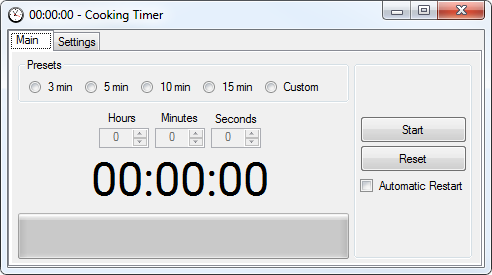
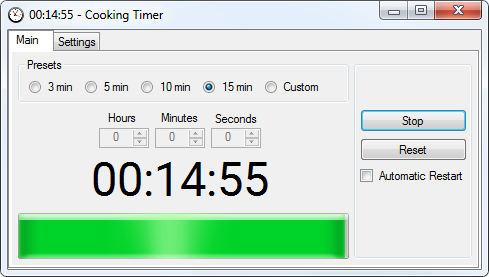
Fixed minor issue
having to double push Start in a few circumstances

diff --git a/Cooking Timer/Form1.Designer.cs b/Cooking Timer/Form1.Designer.cs
@@ -49,7 +49,7 @@
             this.label3 = new System.Windows.Forms.Label();
             this.label4 = new System.Windows.Forms.Label();
             this.timer1 = new System.Windows.Forms.Timer(this.components);
-            this.MainTab = new System.Windows.Forms.TabControl();
+            this.tabControl1 = new System.Windows.Forms.TabControl();
             this.tabPage1 = new System.Windows.Forms.TabPage();
             this.tabPage2 = new System.Windows.Forms.TabPage();
             this.checkBox1 = new System.Windows.Forms.CheckBox();
@@ -58,7 +58,7 @@
             ((System.ComponentModel.ISupportInitialize)(this.HourUpDown)).BeginInit();
             ((System.ComponentModel.ISupportInitialize)(this.MinuteUpDown)).BeginInit();
             ((System.ComponentModel.ISupportInitialize)(this.SecondUpDown)).BeginInit();
-            this.MainTab.SuspendLayout();
+            this.tabControl1.SuspendLayout();
             this.tabPage1.SuspendLayout();
             this.tabPage2.SuspendLayout();
             this.SuspendLayout();
@@ -168,9 +168,9 @@
             // 
             // button2
             // 
-            this.button2.Location = new System.Drawing.Point(6, 87);
+            this.button2.Location = new System.Drawing.Point(6, 80);
             this.button2.Name = "button2";
-            this.button2.Size = new System.Drawing.Size(107, 27);
+            this.button2.Size = new System.Drawing.Size(107, 23);
             this.button2.TabIndex = 3;
             this.button2.Text = "Reset";
             this.button2.UseVisualStyleBackColor = true;
@@ -178,9 +178,9 @@
             // 
             // button1
             // 
-            this.button1.Location = new System.Drawing.Point(6, 58);
+            this.button1.Location = new System.Drawing.Point(6, 51);
             this.button1.Name = "button1";
-            this.button1.Size = new System.Drawing.Size(107, 27);
+            this.button1.Size = new System.Drawing.Size(107, 23);
             this.button1.TabIndex = 2;
             this.button1.Text = "Start";
             this.button1.UseVisualStyleBackColor = true;
@@ -189,7 +189,7 @@
             // AutoRestart
             // 
             this.AutoRestart.AutoSize = true;
-            this.AutoRestart.Location = new System.Drawing.Point(6, 120);
+            this.AutoRestart.Location = new System.Drawing.Point(6, 110);
             this.AutoRestart.Name = "AutoRestart";
             this.AutoRestart.Size = new System.Drawing.Size(110, 17);
             this.AutoRestart.TabIndex = 0;
@@ -263,34 +263,34 @@
             this.label4.TabIndex = 9;
             this.label4.Text = "Seconds";
             // 
-            // MainTab
+            // tabControl1
             // 
-            this.MainTab.Controls.Add(this.tabPage1);
-            this.MainTab.Controls.Add(this.tabPage2);
-            this.MainTab.Dock = System.Windows.Forms.DockStyle.Fill;
-            this.MainTab.Location = new System.Drawing.Point(0, 0);
-            this.MainTab.Name = "MainTab";
-            this.MainTab.SelectedIndex = 0;
-            this.MainTab.Size = new System.Drawing.Size(476, 237);
-            this.MainTab.TabIndex = 10;
+            this.tabControl1.Controls.Add(this.tabPage1);
+            this.tabControl1.Controls.Add(this.tabPage2);
+            this.tabControl1.Dock = System.Windows.Forms.DockStyle.Fill;
+            this.tabControl1.Location = new System.Drawing.Point(0, 0);
+            this.tabControl1.Name = "tabControl1";
+            this.tabControl1.SelectedIndex = 0;
+            this.tabControl1.Size = new System.Drawing.Size(473, 239);
+            this.tabControl1.TabIndex = 10;
             // 
             // tabPage1
             // 
             this.tabPage1.BackColor = System.Drawing.SystemColors.Control;
-            this.tabPage1.Controls.Add(this.groupBox2);
-            this.tabPage1.Controls.Add(this.label4);
             this.tabPage1.Controls.Add(this.groupBox1);
-            this.tabPage1.Controls.Add(this.label3);
+            this.tabPage1.Controls.Add(this.label4);
             this.tabPage1.Controls.Add(this.progressBar1);
-            this.tabPage1.Controls.Add(this.label2);
+            this.tabPage1.Controls.Add(this.label3);
             this.tabPage1.Controls.Add(this.BigTimer);
+            this.tabPage1.Controls.Add(this.label2);
+            this.tabPage1.Controls.Add(this.groupBox2);
             this.tabPage1.Controls.Add(this.SecondUpDown);
             this.tabPage1.Controls.Add(this.HourUpDown);
             this.tabPage1.Controls.Add(this.MinuteUpDown);
             this.tabPage1.Location = new System.Drawing.Point(4, 22);
             this.tabPage1.Name = "tabPage1";
             this.tabPage1.Padding = new System.Windows.Forms.Padding(3);
-            this.tabPage1.Size = new System.Drawing.Size(468, 211);
+            this.tabPage1.Size = new System.Drawing.Size(465, 213);
             this.tabPage1.TabIndex = 0;
             this.tabPage1.Text = "Main";
             // 
@@ -301,18 +301,18 @@
             this.tabPage2.Location = new System.Drawing.Point(4, 22);
             this.tabPage2.Name = "tabPage2";
             this.tabPage2.Padding = new System.Windows.Forms.Padding(3);
-            this.tabPage2.Size = new System.Drawing.Size(468, 211);
+            this.tabPage2.Size = new System.Drawing.Size(465, 213);
             this.tabPage2.TabIndex = 1;
             this.tabPage2.Text = "Settings";
             // 
             // checkBox1
             // 
             this.checkBox1.AutoSize = true;
-            this.checkBox1.Location = new System.Drawing.Point(9, 7);
+            this.checkBox1.Location = new System.Drawing.Point(8, 6);
             this.checkBox1.Name = "checkBox1";
-            this.checkBox1.Size = new System.Drawing.Size(71, 17);
+            this.checkBox1.Size = new System.Drawing.Size(98, 17);
             this.checkBox1.TabIndex = 0;
-            this.checkBox1.Text = "Top Most";
+            this.checkBox1.Text = "Always On Top";
             this.checkBox1.UseVisualStyleBackColor = true;
             this.checkBox1.CheckedChanged += new System.EventHandler(this.checkBox1_CheckedChanged);
             // 
@@ -320,8 +320,8 @@
             // 
             this.AutoScaleDimensions = new System.Drawing.SizeF(6F, 13F);
             this.AutoScaleMode = System.Windows.Forms.AutoScaleMode.Font;
-            this.ClientSize = new System.Drawing.Size(476, 237);
-            this.Controls.Add(this.MainTab);
+            this.ClientSize = new System.Drawing.Size(473, 239);
+            this.Controls.Add(this.tabControl1);
             this.FormBorderStyle = System.Windows.Forms.FormBorderStyle.FixedSingle;
             this.Icon = ((System.Drawing.Icon)(resources.GetObject("$this.Icon")));
             this.Name = "CookingTimerForm";
@@ -335,7 +335,7 @@
             ((System.ComponentModel.ISupportInitialize)(this.HourUpDown)).EndInit();
             ((System.ComponentModel.ISupportInitialize)(this.MinuteUpDown)).EndInit();
             ((System.ComponentModel.ISupportInitialize)(this.SecondUpDown)).EndInit();
-            this.MainTab.ResumeLayout(false);
+            this.tabControl1.ResumeLayout(false);
             this.tabPage1.ResumeLayout(false);
             this.tabPage1.PerformLayout();
             this.tabPage2.ResumeLayout(false);
@@ -365,7 +365,7 @@
         private System.Windows.Forms.Label label3;
         private System.Windows.Forms.Label label4;
         private System.Windows.Forms.Timer timer1;
-        private System.Windows.Forms.TabControl MainTab;
+        private System.Windows.Forms.TabControl tabControl1;
         private System.Windows.Forms.TabPage tabPage1;
         private System.Windows.Forms.TabPage tabPage2;
         private System.Windows.Forms.CheckBox checkBox1;

diff --git a/Cooking Timer/Form1.cs b/Cooking Timer/Form1.cs
@@ -27,15 +27,18 @@ namespace Cooking_Timer
             timer.Interval = 1000;
             timerSound = new Timer();
             timerSound.Interval = 10;
+
+            timer.Tick += new EventHandler(TimerTick);
+            timerSound.Tick += new EventHandler(TimerTickSound);
         }
 
         public void button1_Click(object sender, EventArgs e)
         {
             if (timer.Enabled == false)
             {
-                timer.Tick += new EventHandler(TimerTick);
-                timerSound.Tick += new EventHandler(TimerTickSound);
                 timer.Start();
+
+                timerSound.Tick += new EventHandler(TimerTickSound);
                 timerSound.Start();
                 button1.Text = "Stop";
             }
@@ -43,8 +46,6 @@ namespace Cooking_Timer
             {
                 timer.Stop();
                 timerSound.Stop();
-                timer.Tick -= new EventHandler(TimerTick);
-                timerSound.Tick -= new EventHandler(TimerTickSound);
                 button1.Text = "Start";
             }
         }
@@ -53,8 +54,6 @@ namespace Cooking_Timer
         {
             timer.Stop();
             timerSound.Stop();
-            timer.Tick -= new EventHandler(TimerTick);
-            timerSound.Tick -= new EventHandler(TimerTickSound);
 
             hours = startHours;
             minutes = startMinutes;
@@ -97,6 +96,7 @@ namespace Cooking_Timer
                             minutes = startMinutes;
                             seconds = startSeconds;
 
+
                             timerSound.Tick += new EventHandler(TimerTickSound);
                             timerSound.Start();
                         }
@@ -107,7 +107,7 @@ namespace Cooking_Timer
                             seconds = startSeconds;
 
                             // remove event handler
-                            timer.Tick -= new EventHandler(TimerTick);
+                            timer.Stop();
                             button1.Text = "Start";
                             Fininshed = true;
                         }
@@ -119,6 +119,7 @@ namespace Cooking_Timer
             double current = ((hours * 60 * 60) + (minutes * 60) + (seconds));
             double start = ((startHours * 60 * 60) + (startMinutes * 60) + (startSeconds));
             double percent = (current / start) * 100.0;
+
 
             progressBar1.Value = (int)percent;
             if (Fininshed)
@@ -132,10 +133,8 @@ namespace Cooking_Timer
         {
             if (hours + minutes + seconds == 0)
             {
-
                 playaudio();
-
-                // remove event handler
+                
                 timerSound.Tick -= new EventHandler(TimerTickSound);
             }
 
@@ -176,12 +175,6 @@ namespace Cooking_Timer
                 this.seconds.ToString().PadLeft(2, '0'));
         }
 
-        private void playaudio() // defining the function
-        {
-            SoundPlayer audio = new SoundPlayer(Properties.Resources.Chime); // here WindowsFormsApplication1 is the namespace and Connect is the audio file name
-            audio.Play();
-        }
-
         public void MinuteRadio_CheckedChanged(object sender, EventArgs e)
         {
             RadioChanged();
@@ -194,8 +187,6 @@ namespace Cooking_Timer
             {
                 timer.Stop();
                 timerSound.Stop();
-                timer.Tick -= new EventHandler(TimerTick);
-                timerSound.Tick -= new EventHandler(TimerTickSound);
             }
 
             if (MinuteRadio3.Checked == true)
@@ -244,6 +235,12 @@ namespace Cooking_Timer
                 MinuteUpDown.Enabled = false;
                 SecondUpDown.Enabled = false;
             }
+        }
+
+        private void playaudio() // defining the function
+        {
+            SoundPlayer audio = new SoundPlayer(Properties.Resources.Chime); // here WindowsFormsApplication1 is the namespace and Connect is the audio file name
+            audio.Play();
         }
 
         public void HourUpDown_ValueChanged(object sender, EventArgs e)

diff --git a/Cooking Timer/Properties/Settings.Designer.cs b/Cooking Timer/Properties/Settings.Designer.cs
@@ -34,29 +34,5 @@ namespace Cooking_Timer.Properties {
                 this["AlwaysOnTop"] = value;
             }
         }
-        
-        [global::System.Configuration.UserScopedSettingAttribute()]
-        [global::System.Diagnostics.DebuggerNonUserCodeAttribute()]
-        [global::System.Configuration.DefaultSettingValueAttribute("0")]
-        public int StartLocation {
-            get {
-                return ((int)(this["StartLocation"]));
-            }
-            set {
-                this["StartLocation"] = value;
-            }
-        }
-        
-        [global::System.Configuration.UserScopedSettingAttribute()]
-        [global::System.Diagnostics.DebuggerNonUserCodeAttribute()]
-        [global::System.Configuration.DefaultSettingValueAttribute("0, 0")]
-        public global::System.Drawing.Point LastLocation {
-            get {
-                return ((global::System.Drawing.Point)(this["LastLocation"]));
-            }
-            set {
-                this["LastLocation"] = value;
-            }
-        }
     }
 }

diff --git a/Cooking Timer/Properties/Resources.Designer.cs b/Cooking Timer/Properties/Resources.Designer.cs
@@ -61,6 +61,15 @@ namespace Cooking_Timer.Properties {
         }
         
         /// <summary>
+        ///   Looks up a localized string similar to .
+        /// </summary>
+        internal static string AlwaysOnTop {
+            get {
+                return ResourceManager.GetString("AlwaysOnTop", resourceCulture);
+            }
+        }
+        
+        /// <summary>
         ///   Looks up a localized resource of type System.IO.UnmanagedMemoryStream similar to System.IO.MemoryStream.
         /// </summary>
         internal static System.IO.UnmanagedMemoryStream Chime {
